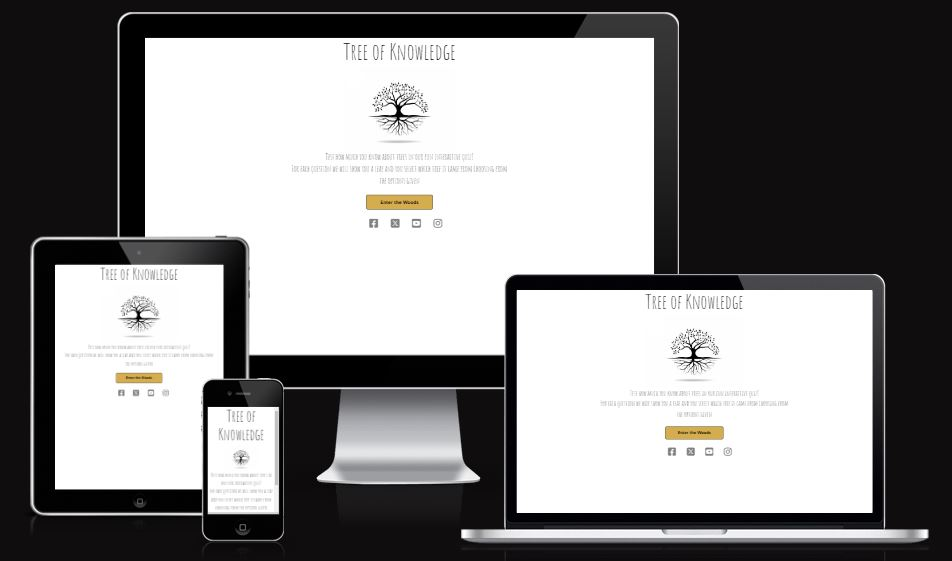
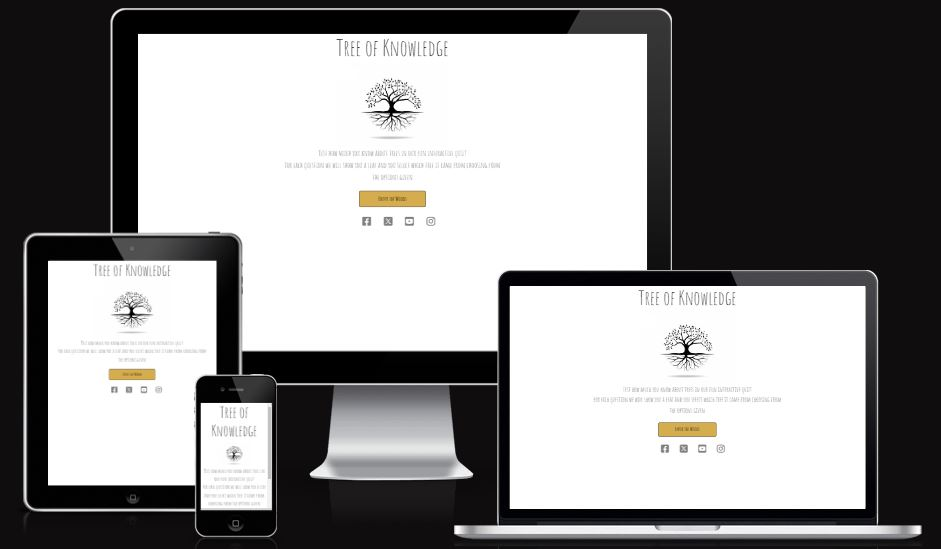
Fix showScore and resetState function to display and remove the scoreMessage div when required

diff --git a/assets/js/script.js b/assets/js/script.js
@@ -1,127 +1,135 @@
-/* Defining my variables */
+/* Loading my DOM Content to ensure Javascript is executed after HTML */
 
-const startButton = document.getElementById("start-btn");
-const startScreenSection = document.getElementById("start-screen");
-const playScreenSection = document.getElementById("play-screen");
+document.addEventListener("DOMContentLoaded", function () {
 
-const imageElement = document.getElementById("leaf-image");
-const questionElement = document.getElementById("question");
-const answerButtons = document.getElementById("answer-buttons");
-const nextButton = document.getElementById("next-btn");
-const scoreMessage = document.getElementById("score-message");
-const link = document.createElement("a");
+    /* Defining my variables */
 
-let currentQuestionIndex = 0;
-let score = 0;
+    const startButton = document.getElementById("start-btn");
+    const startScreenSection = document.getElementById("start-screen");
+    const playScreenSection = document.getElementById("play-screen");
 
-/* Functions */
+    const imageElement = document.getElementById("leaf-image");
+    const questionElement = document.getElementById("question");
+    const answerButtons = document.getElementById("answer-buttons");
+    const nextButton = document.getElementById("next-btn");
+    const scoreMessage = document.getElementById("score-message");
+    const link = document.createElement("a");
 
-/* Function to start quiz  */
+    let currentQuestionIndex = 0;
+    let score = 0;
 
-function startQuiz() {
-    currentQuestionIndex = 0;
-    score = 0;
-    nextButton.innerHTML = "Next";
-    shuffleArray(questions);
-    showQuestion();
-}
+    // Function to start quiz  
 
-/* Function to shuffle an array using the Fisher-Yates algorithm */
-
-function shuffleArray(array) {
-    for (let i = array.length - 1; i > 0; i--) {
-        const j = Math.floor(Math.random() * (i + 1));
-        [array[i], array[j]] = [array[j], array[i]];
-    }
-}
-
-function showQuestion() {
-    resetState();
-    let currentQuestion = questions[currentQuestionIndex];
-    let questionNo = currentQuestionIndex + 1;
-    imageElement.src = currentQuestion.image;
-    questionElement.innerHTML = questionNo + ". " + currentQuestion.question;
-    currentQuestion.answers.forEach(answer => {
-        const button = document.createElement("button");
-        button.innerHTML = answer.text;
-        button.classList.add("btn");
-        answerButtons.appendChild(button);
-        if (answer.correct) {
-            button.dataset.correct = answer.correct;
-        }
-        button.addEventListener("click", selectAnswer);
-    });
-}
-
-function resetState() {
-    nextButton.style.display = "none";
-    while (answerButtons.firstChild) {
-        answerButtons.removeChild(answerButtons.firstChild);
-    }
-}
-
-function selectAnswer(e) {
-    const selectedBtn = e.target;
-    const isCorrect = selectedBtn.dataset.correct === "true";
-    if (isCorrect) {
-        selectedBtn.classList.add("correct");
-        score++;
-    } else {
-        selectedBtn.classList.add("incorrect");
-    }
-    Array.from(answerButtons.children).forEach(button => {
-        if (button.dataset.correct === "true") {
-            button.classList.add("correct");
-        }
-        button.disabled = "true";
-    });
-    nextButton.style.display = "block";
-}
-
-function showScore() {
-    resetState();
-    imageElement.src = "assets/images/tree_of_life.jpg";
-    questionElement.innerHTML = `You scored ${score} out of ${questions.length}!`;
-    if (score <= 3) {
-        scoreMessage.innerHTML = "Not bad. With a bit more research you could be an expert.<br>Why not take a look at";
-    } else if (score <= 7) {
-        scoreMessage.innerHTML = "Well done! You're well on your way to becoming an expert.<br>Why not take a look at";
-    } else {
-        scoreMessage.innerHTML = "Wow, you really know your stuff. You're a tree expert!<br>Why not take a look at";
-    }
-    link.href = "https://www.woodlandtrust.org.uk/trees-woods-and-wildlife/british-trees/how-to-identify-trees";
-    link.textContent = " The Woodland Trust";
-    link.target = "_blank";
-
-    scoreMessage.appendChild(link);
-
-    nextButton.innerHTML = "Play Again";
-    nextButton.style.display = "block";
-}
-
-function handleNextButton() {
-    currentQuestionIndex++;
-    if (currentQuestionIndex < questions.length) {
+    function startQuiz() {
+        currentQuestionIndex = 0;
+        score = 0;
+        nextButton.innerHTML = "Next";
+        scoreMessage.innerHTML = ""; // Clearing the previous score message
+        // Randomize the questions
+        shuffleArray(questions);
         showQuestion();
-    } else {
-        showScore();
     }
-}
 
-// Event Listener to hide the Start Screen and display Play Screen on click
-startButton.addEventListener("click", () => {
-    startScreenSection.style.display = "none";
-    playScreenSection.style.display = "block";
-});
+    // Function to shuffle an array using the Fisher-Yates algorithm 
 
-// Event Listener to display the next question on click
-nextButton.addEventListener("click", () => {
-    if (currentQuestionIndex < questions.length) {
-        handleNextButton();
-    } else {
-        startQuiz();
+    function shuffleArray(array) {
+        for (let i = array.length - 1; i > 0; i--) {
+            const j = Math.floor(Math.random() * (i + 1));
+            [array[i], array[j]] = [array[j], array[i]];
+        }
     }
+
+    function showQuestion() {
+        resetState();
+        let currentQuestion = questions[currentQuestionIndex];
+        let questionNo = currentQuestionIndex + 1;
+        imageElement.src = currentQuestion.image;
+        questionElement.innerHTML = questionNo + ". " + currentQuestion.question;
+        currentQuestion.answers.forEach(answer => {
+            const button = document.createElement("button");
+            button.innerHTML = answer.text;
+            button.classList.add("btn");
+            answerButtons.appendChild(button);
+            if (answer.correct) {
+                button.dataset.correct = answer.correct;
+            }
+            button.addEventListener("click", selectAnswer);
+        });
+    }
+
+    function resetState() {
+        nextButton.style.display = "none";
+        scoreMessage.innerHTML = '';  // Clear score message content
+        scoreMessage.style.display = 'none'; // Hide the score message
+
+        while (answerButtons.firstChild) {
+            answerButtons.removeChild(answerButtons.firstChild);
+        }
+    }
+
+    function selectAnswer(e) {
+        const selectedBtn = e.target;
+        const isCorrect = selectedBtn.dataset.correct === "true";
+        if (isCorrect) {
+            selectedBtn.classList.add("correct");
+            score++;
+        } else {
+            selectedBtn.classList.add("incorrect");
+        }
+        Array.from(answerButtons.children).forEach(button => {
+            if (button.dataset.correct === "true") {
+                button.classList.add("correct");
+            }
+            button.disabled = "true";
+        });
+        nextButton.style.display = "block";
+    }
+
+    function showScore() {
+        resetState();
+        imageElement.src = "assets/images/tree_of_life.jpg";
+        questionElement.innerHTML = `You scored ${score} out of ${questions.length}!`;
+        if (score <= 3) {
+            scoreMessage.innerHTML = "Nice try. With a bit more research you could be an expert.<br>Why not take a look at";
+        } else if (score <= 7) {
+            scoreMessage.innerHTML = "Well done! You're well on your way to becoming an expert.<br>Why not take a look at";
+        } else {
+            scoreMessage.innerHTML = "Wow, you really know your stuff. You're a tree expert!<br>Why not take a look at";
+        }
+        link.href = "https://www.woodlandtrust.org.uk/trees-woods-and-wildlife/british-trees/how-to-identify-trees";
+        link.textContent = " The Woodland Trust";
+        link.target = "_blank";
+        scoreMessage.appendChild(link);
+        nextButton.innerHTML = "Play Again";
+        nextButton.style.display = "block";
+        nextButton.style.background = "#D5AC4E";
+        scoreMessage.style.display = 'block'; /* Show the score message. Tutor support was needed to show how to display the scoreMessage here but hide it when the quiz resets*/
+    }
+
+    function handleNextButton() {
+        currentQuestionIndex++;
+        if (currentQuestionIndex < questions.length) {
+            showQuestion();
+        } else {
+            showScore();
+        }
+    }
+
+    // Event Listener to hide the Start Screen and display Play Screen on click
+    startButton.addEventListener("click", () => {
+        startScreenSection.style.display = "none";
+        playScreenSection.style.display = "block";
+    });
+
+
+    // Event Listener to display the next question on click
+    nextButton.addEventListener("click", () => {
+        if (currentQuestionIndex < questions.length) {
+            handleNextButton();
+        } else {
+            startQuiz();
+        }
+    });
+
+    startQuiz();
 });
-
-startQuiz();
-

diff --git a/index.html b/index.html
@@ -52,11 +52,11 @@
 
         <div class="container">
             <div class="row">
-                <div id="leaf-image-container" class="col-xs-4 col-sm-5 col-lg-6">
+                <div id="leaf-image-container" class="col-xs-4 col-lg-6">
                     <img id="leaf-image" src="" alt="">
                 </div>
 
-                <div id="question-container" class="col-xs-8 col-sm-7 col-lg-6">
+                <div id="question-container" class="col-xs-8 col-lg-6">
                     <h3 id="question">Question here</h3>
                     <div id="score-message">
                     </div>

diff --git a/assets/css/style.css b/assets/css/style.css
@@ -32,7 +32,7 @@ p {
 }
 
 #score-message {
-    font-size: larger;
+    padding: 20px;
 }
 
 /* Buttons */

diff --git a/README.md b/README.md
@@ -212,6 +212,8 @@ Click [Here](https://help.github.com/en/github/creating-cloning-and-archiving-re
 
 - [Freecoder Camp](https://www.freecodecamp.org/news/css-responsive-image-tutorial/#:~:text=To%20make%20an%20image%20responsive>,than%20absolute%20ones%20like%20pixels): Useful article on making sure images are responsive on all devices.
 
+- Tutor support was used to replace the question image with another image on my results page
+
 ### Content
 
 - [Woodland Trust](https://www.woodlandtrust.org.uk/trees-woods-and-wildlife/british-trees/a-z-of-british-trees/): A really useful resource for setting my quiz questions and answers.
